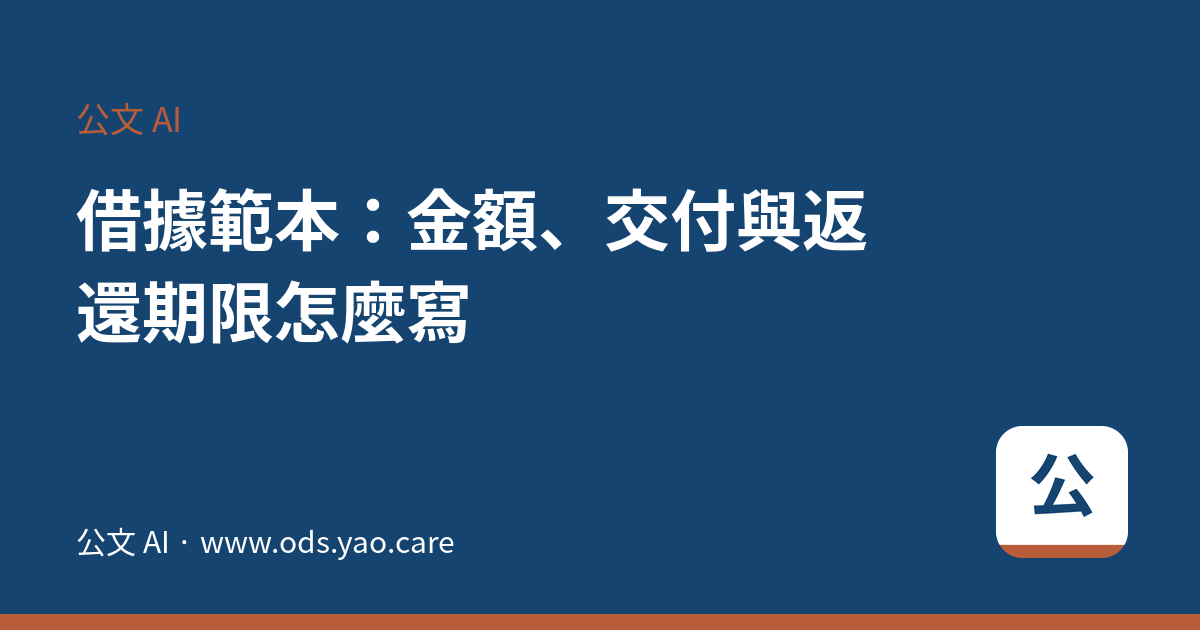
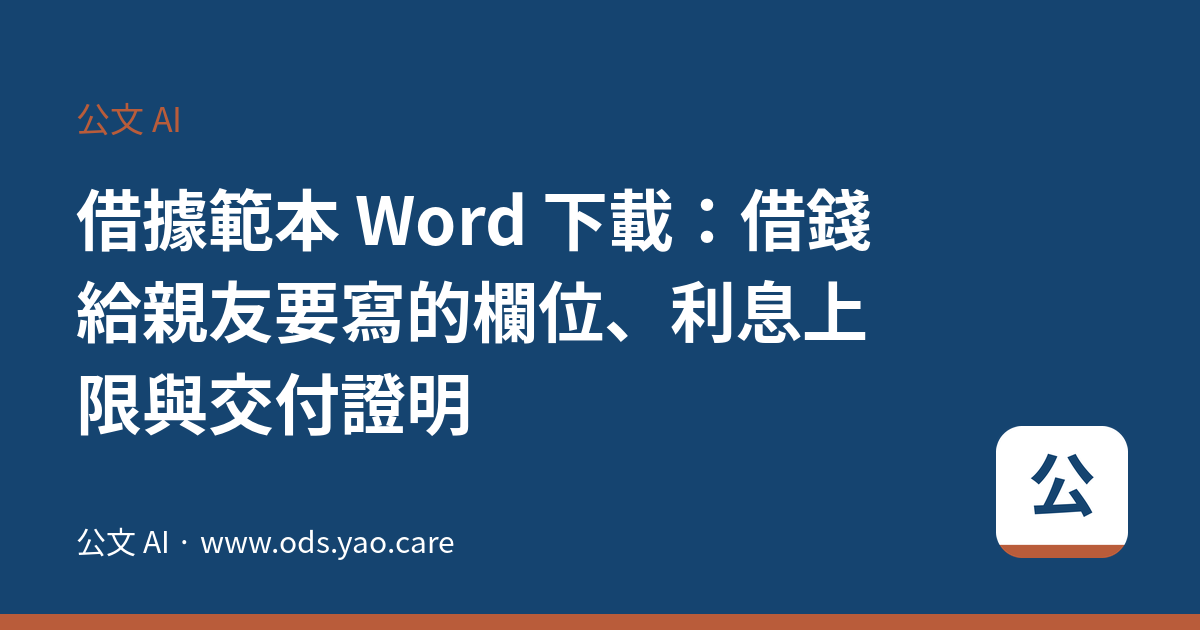
feat(seo): /templates/ 依交辦的事分群直達 Word；借據頁補欄位清單、保證人與見證人、首屏下載
- /templates/：填好的公文範例改為六個交辦群組（開會通知、申請請款陳報、回覆與轉案、書函、簽、公告），
  每群附空白範本與範例檔直達下載；頁首加開會通知單與函兩份入口。title 不動（10/02 標題交接觀察至 10/13）。
- 借據頁：第一屏放 Word 下載；七欄位表（交付、利息上限 16%、法定利率 5%、第 206 條）、
  保證人與見證人差別（民法 739、745、746、第 3 條）、借據與本票對照表；本票頁仍不給 Word 檔，只加回連借據對照。
- 借據 seoTitle 改含「Word 下載」，重產該頁分享圖。

Claude-Session: https://claude.ai/code/session_01RRxM88XNF3k3AtAxqmTM5M

Changed region(s): [[0.0617, 0.3016, 0.74, 0.5429], [0.0617, 0.573, 0.4008, 0.6937], [0.555, 0.4524, 0.74, 0.5429]]

diff --git a/src/data/private-docs.js b/src/data/private-docs.js
@@ -146,7 +146,7 @@ export const PRIVATE_DOCS = [
   {
     key: 'loan_iou',
     slug: 'loan-iou',
-    seoTitle: '借據範本：金額、交付與返還期限怎麼寫',
+    seoTitle: '借據範本 Word 下載：借錢給親友要寫的欄位、利息上限與交付證明',
     category: '借貸',
     lead: '借據沒有法定格式，但漏了「錢已經交付」這件事，日後要另外舉證。本票是另一回事 —— 那個可以直接聲請法院強制執行。',
     watchOut: [

diff --git a/CLAUDE.md b/CLAUDE.md
@@ -199,6 +199,8 @@ import('/root/seo-ops/lib/google.mjs').then(async g=>{
 
 `/templates/` 是為「公文格式 word」「公文範本下載」這類高意圖字開的落地頁，
 同時也是全站每一頁都連得到的 Word 下載入口（導覽列「格式與用語」群組內）。
+2026-10-04 起填好的公文範例改成「依交辦的事」分群（`src/pages/templates/index.astro` 的 `TASK_GROUPS`），
+頁首另有開會通知單與函兩份直達下載。**新增公文案例時要把 slug 歸進某一群，否則 build 直接丟錯**（刻意不設「其他」）。
 
 **站外那一條也算內鏈**：`www.yao.care/ai/ods/` 是 ODS 在 yao.care 的產品落地頁，
 2026-08-20 實查時它當天就被重爬過，是本站最快的被發現管道；那頁同日補上民眾書件與參考內容的
